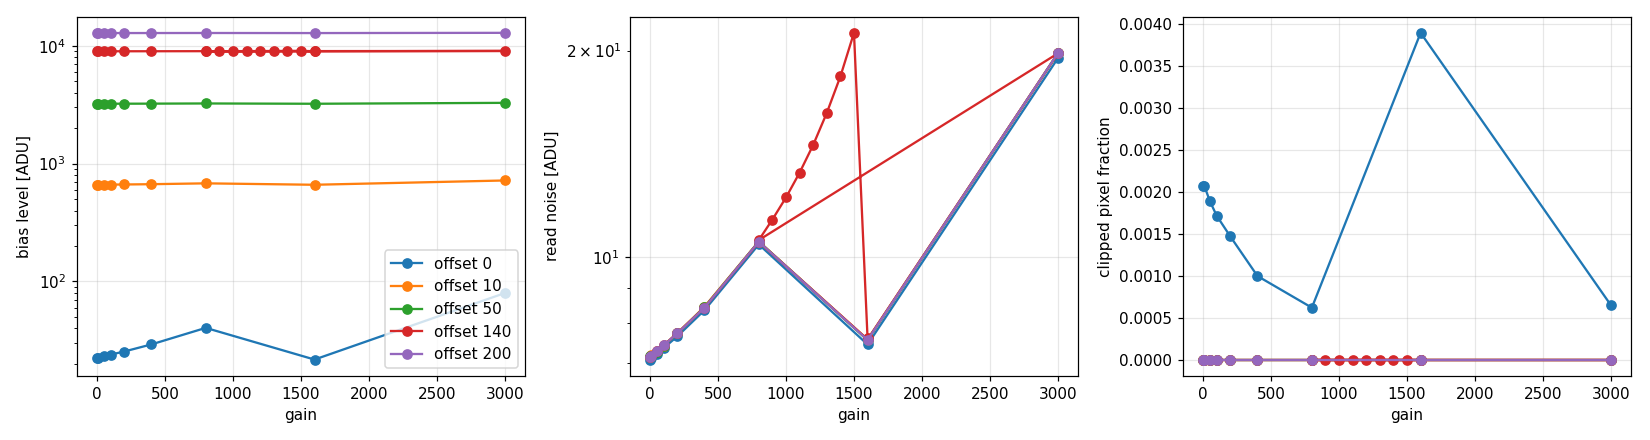
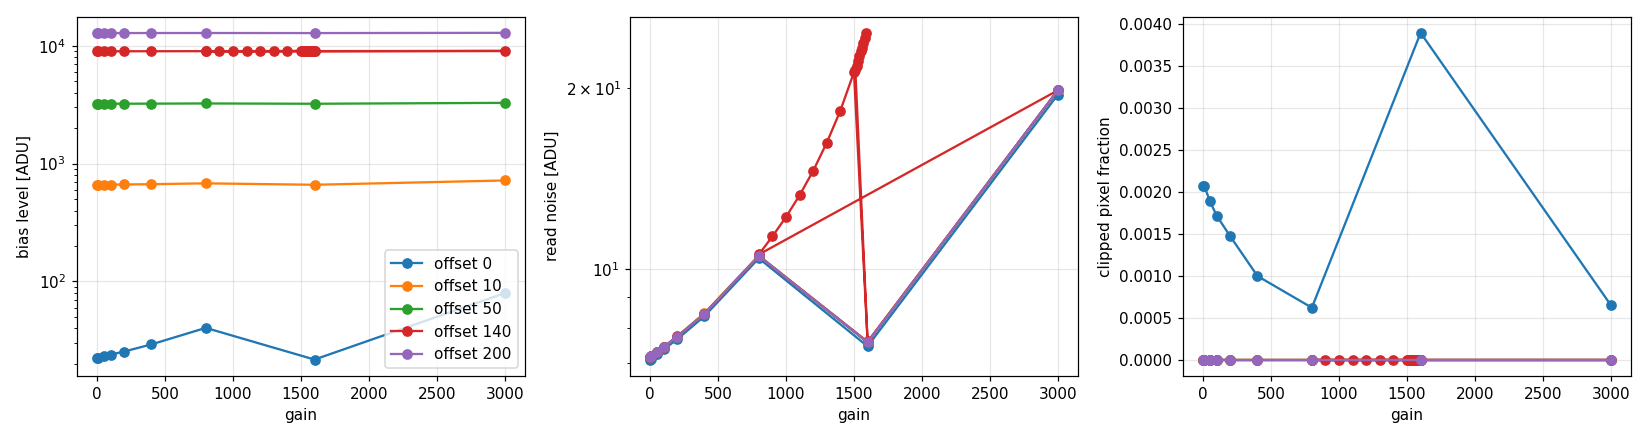
Locate the conversion gain switch: gain 1600 (mode 0), gain 200 (mode 1)

diff --git a/characterization/QHY294PROM/cfb85516525f0aced/README.md b/characterization/QHY294PROM/cfb85516525f0aced/README.md
@@ -122,7 +122,11 @@ Data: [bias.jsonl](bias.jsonl) and [bias.jsonl of mode 1](../cfb85516525f0aced_m
   about 5.7 e- at 1500 and 1.7 e- at 1600. So gain 1600 is the lowest setting with the low-noise conversion gain
   (inferred from the e- values, the switch itself is only seen in the noise).
 - **Mode 1 shows no switch in 800 to 1600** (noise rises smoothly from 12.8 to 15.8 ADU). Its drop lies between gain 100
-  and 200 (26.2 to 11.4 ADU, see the mode 1 table above), so the switch there was not scanned in finer steps.
+  and 200 (26.2 to 11.4 ADU, see the mode 1 table above). A scan in steps of 10 puts it **between gain 190 and 200**
+  (30.2 to 11.4 ADU, bias level 8902 to 8934 ADU; measured).
+- A mode 0 scan in steps of 10 from 1510 to 1590 shows the noise rising from 21.4 to 24.7 ADU with no earlier step, so the
+  switch is **between gain 1590 and 1600** (measured). So the low-noise conversion gain starts at gain 1600 in mode 0 and at
+  gain 200 in mode 1.
 - Below the switch the read noise in e- falls slowly with gain (7.4 e- at 0, 5.7 e- at 1500); the ADU noise growth is the
   falling e-/ADU.
 
@@ -579,11 +583,11 @@ is why the PWM trace is a sawtooth during the ramps.
 
 ## Not measured yet
 
-- **The mode 0 switch gain exactly** (1500 or 1600 in finer steps, 1501 to 1599), and the photon transfer gain between
-  1000 and 1500 with more frames (the e-/ADU there are interpolated at 1500).
+- **The photon transfer gain between 1000 and 1500** with more frames (the e-/ADU there is interpolated at 1500). The
+  switch gains are now known to 10 (mode 1: 200, mode 0: 1600), not to 1.
 - **Sensor temperature during long darks:** log it from a second process or between frames (the readings after the 900 s
   darks are wrong).
-- **Read mode 1:** 900 s darks, and the exact gain of its conversion gain switch (between 100 and 200).
+- **Read mode 1:** 900 s darks.
 - **Temperature below -13 °C:** not reachable at about 20 °C ambient (see [Cooling](#cooling-and-the-power-supply)).
 - **Restart of the module with the cooler on** and the driver's PWM workaround (switched off by default) on the other QHY
   cameras: not tested; on this unit with the 5 A supply it was not needed.

diff --git a/characterization/QHY294PROM/README.md b/characterization/QHY294PROM/README.md
@@ -40,7 +40,7 @@ cooling numbers):
 - Gain 10 and offset 140 give a bias noise of 7.2 ADU. The noise rises slowly to 8.4 ADU at gain 400 and 10.5 ADU at
   gain 800, drops to 7.6 ADU at gain 1600 and jumps to 19 ADU at gain 3000. The conversion gain is 1.03 e-/ADU at gain 0,
   0.83 at 400, 0.51 at 1000, 0.22 at 1600 and 0.068 at 3000, so the read noise is 7.2 e- up to gain 400 and 1.7 e- at gain
-  1600: a switch of the conversion gain between gain 1500 and 1600 (bias noise 21 to 7.6 ADU, e- from photon transfer).
+  1600: a switch of the conversion gain at gain 1600 (mode 1: at gain 200; bias noise 21 to 7.6 ADU, e- from photon transfer).
   For low noise use gain 1600 or higher, for dynamic range gain 0 to 100 (58 ke- above the bias, the ADC clips before
   the pixels saturate).
 - Binning in the camera adds the pixels (bias 4x at bin 2, 16x at bin 4) and the read noise grows with the square root of
